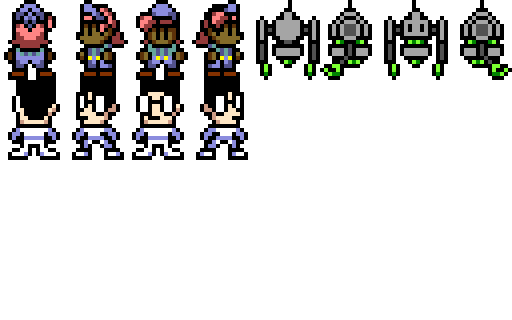
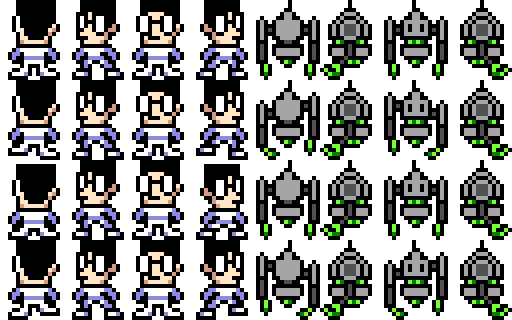
added character animation to world map.

diff --git a/js/worldmap/entities.js b/js/worldmap/entities.js
@@ -1,13 +1,13 @@
 var mapentities = {
     "farmersmarket": [
         //EnterShop("ChickenCoop", 10, 6, "coop"),
-        EnterShop("UpgradeTest", 10, 5, "farmupgradeFull"),
-        GetCommonEntity("SexFuck6969", 6, 10, 0, 1, 3, undefined, undefined, { storageKey: "craig", postBattle: "PostInitialBattle" }),
+        //EnterShop("UpgradeTest", 10, 5, "farmupgradeFull"),
+        GetCommonEntity("SexFuck6969", 6, 10, 0, 3, undefined, undefined, { storageKey: "craig", postBattle: "PostInitialBattle" }),
         SwitchMap("ExitAreaSouth", 0, 12, true, false, 5, 8, "farmpath"),
-        GetCommonEntity("PostInitialBattle", -1, -1, undefined, undefined, undefined, undefined, [
+        GetInvisibleEntity("PostInitialBattle", [
             GetSpeak("oops I killed a man. i should go kick his boss's ass, too. also his boss's ass,"),
             GetSpeak("so on and so forth, all the way up to the top. I should head to my farm first to get supplies.") 
-        ], { solid: false, storageKey: "PostInitialBattle" }),
+        ], { storageKey: "PostInitialBattle" }),
         {
             name: "CutscenePrompt",
             pos: {x: 11, y: 7}, // 10
@@ -18,8 +18,9 @@ var mapentities = {
                 function() {
                     worldmap.waitForAnimation = true;
                     worldmap.importantEntities["craig"].dir = 0;
+                    worldmap.importantEntities["craig"].moving = true;
                     worldmap.animIdx = setInterval(function() {
-                        worldmap.importantEntities["craig"].pos.y -= 0.2;//0.025;
+                        worldmap.importantEntities["craig"].pos.y -= 0.025;//0.2;//0.025;
                         worldmap.refreshMap();
                         if(worldmap.importantEntities["craig"].pos.y <= 8.5) {
                             worldmap.finishAnimation();
@@ -30,7 +31,7 @@ var mapentities = {
                     worldmap.waitForAnimation = true;
                     worldmap.importantEntities["craig"].dir = 3;
                     worldmap.animIdx = setInterval(function() {
-                        worldmap.importantEntities["craig"].pos.x += 0.2;//0.025;
+                        worldmap.importantEntities["craig"].pos.x += 0.025;//0.2;//0.025;
                         worldmap.refreshMap();
                         if(worldmap.importantEntities["craig"].pos.x >= 10) {
                             worldmap.finishAnimation();
@@ -40,8 +41,17 @@ var mapentities = {
                 function() {
                     worldmap.importantEntities["craig"].dir = 0;
                     worldmap.refreshMap();
-                    worldmap.writeText("fucking sick dude");
+                    worldmap.writeText("fucking sick");
+                    worldmap.importantEntities["craig"].moving = false;
                 },
+                GetSpeak("can i get a fuckin uhhhh carrot"),
+                function() {
+                    worldmap.importantEntities["craig"].dir = 1;
+                    worldmap.refreshMap();
+                    worldmap.writeText("this carrot is dope as SHIT, you really are a mighty farmer");
+                },
+                GetSpeak("i'm gonna use this carrot data to create PROPRIETARY FOOD SUBSTITUTES"),
+                GetSpeak("oh no you are going to fight me now because of that i guess"),
                 function() {
                     worldmap.clearTarget();
                     game.target = worldmap.importantEntities["craig"];
@@ -57,14 +67,14 @@ var mapentities = {
     ],
     "farm": [
         SwitchMap("ExitAreaWest", 23, 0, false, true, 1, 11, "farmpath"),
-        GetCommonEntity("Robo1", 20, 8, 4, 0, 2, commonMovementDatas.robo(20), commonInteractArrays.robo), 
-        GetCommonEntity("Robo2", 17, 10, 4, 0, 2, commonMovementDatas.robo(17), commonInteractArrays.robo), 
-        GetCommonEntity("Robo3", 16, 12, 4, 0, 2, commonMovementDatas.robo(16), commonInteractArrays.robo), 
-        GetCommonEntity("Robo4", 13, 14, 4, 0, 2, commonMovementDatas.robo(13), commonInteractArrays.robo), 
-        GetCommonEntity("Robo5", 12, 11, 4, 0, 2, commonMovementDatas.robo(12, 1), commonInteractArrays.robo), 
-        GetCommonEntity("Robo6", 9, 15, 4, 0, 2, commonMovementDatas.robo(9, 1), commonInteractArrays.robo),
+        GetCommonEntity("Robo1", 20, 8, 4, 2, commonMovementDatas.robo(20), commonInteractArrays.robo), 
+        GetCommonEntity("Robo2", 17, 10, 4, 2, commonMovementDatas.robo(17), commonInteractArrays.robo), 
+        GetCommonEntity("Robo3", 16, 12, 4, 2, commonMovementDatas.robo(16), commonInteractArrays.robo), 
+        GetCommonEntity("Robo4", 13, 14, 4, 2, commonMovementDatas.robo(13), commonInteractArrays.robo), 
+        GetCommonEntity("Robo5", 12, 11, 4, 2, commonMovementDatas.robo(12, 1), commonInteractArrays.robo), 
+        GetCommonEntity("Robo6", 9, 15, 4, 2, commonMovementDatas.robo(9, 1), commonInteractArrays.robo),
         EnterShop("ChickenCoop", 18, 3, "coop"),
-        GetCommonEntity("Fucker", 10, 3, 0, 0, 2, undefined, [
+        GetCommonEntity("Fucker", 10, 3, 0, 2, undefined, [
             GetSpeak("hI hEllo yEs i aM a tEchnology rObot sEnt tO rEsearch tHis fArm."),
             GetSpeak("aLso bY \"rEsearch\" i mEan \"lOot aNd pIllage.\""),
             GetSpeak("oH sHit tHis iS yOur fArm? fUck. i mEan... uHhhh... wAnt gIrl sCout cOokies?"),

diff --git a/js/worldmap/worldmap.js b/js/worldmap/worldmap.js
@@ -1,6 +1,7 @@
 var worldmap = {
     freeMovement: true,
     pos: {x: 0, y: 0}, playerDir: 2,
+    animData: new MapAnim("mapplayer", 0, 0, 16, 20, 2),
     mapName: "", fullAnimIdx: 0,
     entities: [], importantEntities: {},
     inDialogue: false, dialogState: 0,
@@ -46,6 +47,7 @@ var worldmap = {
         for(var i = 0; i < worldmap.entities.length; i++) {
             var e = worldmap.entities[i];
             if(e.movement === undefined) { continue; }
+            e.moving = true;
             var em = e.movement;
             var pointinfo = em.points[em.state];
             var newPos = {
@@ -86,19 +88,21 @@ var worldmap = {
         for(var y = 0; y < ymax; y++) { layers.push([]); }
         for(var i = 0; i < this.entities.length; i++) {
             var e = this.entities[i];
-            if(e.pos.y < 0 || e.pos.y >= ymax) { continue; }
-            layers[Math.round(e.pos.y)].push(e);
+            if(!e.visible || e.pos.y < 0 || e.pos.y >= ymax) { continue; }
+            layers[Math.round(e.pos.y)].push(e.anim.getFrame(e.pos, e.dir, e.moving));
         }
-        layers[Math.round(this.pos.y)].push({sx: 0, sy: 0, pos: this.pos, dir: this.playerDir});
+        var animDir = this.playerDir, moving = true;
+        if(input.keys["w"] !== undefined) { animDir = 0; }
+        else if(input.keys["a"] !== undefined) { animDir = 1; }
+        else if(input.keys["s"] !== undefined) { animDir = 2; }
+        else if(input.keys["d"] !== undefined) { animDir = 3; }
+        else { moving = false; }
+        layers[Math.round(this.pos.y)].push(this.animData.getFrame(this.pos, animDir, moving));
         for(var y = 0; y < ymax; y++) {
             var funcs = layers[y];
             for(var i = 0; i < funcs.length; i++) {
                 var e = funcs[i];
-                if(e.big) {
-                    gfx.drawBigMapCharacter(e.sx, e.sy, e.pos, offset, e.dir);
-                } else {
-                    gfx.drawMapCharacter(e.sx, e.sy, e.pos, offset, e.dir);
-                }
+                gfx.drawAnimCharacter(e.sx, e.sy, e.pos, offset, e.sheet, e.big);
             }
         }
     },
@@ -179,15 +183,13 @@ var worldmap = {
         if(!hasCollisions) {
             for(var i = 0; i < this.entities.length; i++) {
                 var e = this.entities[i];
-                if(e.pos.x == newPos.x && e.pos.y == newPos.y) {
+                if(worldmap.isCollision(e, newPos)) {
                     hasCollisions = true;
                     break;
                 }
             }
         }
-        if(!hasCollisions) {
-            this.pos = pos;
-        }
+        if(!hasCollisions) { this.pos = pos; }
         if(isEnter) {
             switch(this.playerDir) {
                 case 0: newPos.y--; break;
@@ -197,7 +199,7 @@ var worldmap = {
             }
             for(var i = 0; i < this.entities.length; i++) {
                 var e = this.entities[i];
-                if(e.solid && Math.round(e.pos.x) == newPos.x && Math.round(e.pos.y) == newPos.y && e.interact !== undefined) {
+                if(e.solid && worldmap.isCollision(e, newPos) && e.interact !== undefined) {
                     e.dir = this.invertDir(this.playerDir);
                     this.inDialogue = true;
                     clearInterval(this.fullAnimIdx);
@@ -228,5 +230,13 @@ var worldmap = {
             case 2: return 0;
             case 3: return 1;
         }
+    },
+    isCollision: function(e, newPos) {
+        if(e.pos.x == newPos.x && e.pos.y == newPos.y) { return true; }
+        return e.big && (
+            ((e.pos.x + 1) == newPos.x && e.pos.y == newPos.y)
+            || (e.pos.x == newPos.x && (e.pos.y + 1) == newPos.y)
+            || ((e.pos.x + 1) == newPos.x && (e.pos.y + 1) == newPos.y)
+        );
     }
 };

diff --git a/js/rendering.js b/js/rendering.js
@@ -45,15 +45,10 @@ var gfx = {
         layer = layer || "characters";
         gfx.drawImage(gfx.ctx[layer], gfx.spritesheets["charsheet"], sx * 16, sy * 20, 16, 20, x * 16, y * 16 - 4, 16, 20);
     },
-    drawBigMapCharacter: function(sx, sy, pos, offset, dir) {
-        gfx.drawImage(gfx.ctx["characters"], gfx.spritesheets["mapcharbig"], (sx + dir) * 32, sy * 40, 32, 40, (pos.x - offset.x) * 16 - 8, (pos.y - offset.y) * 16 - 24, 32, 40);
-    },
-    drawMapCharacter: function(sx, sy, pos, offset, dir) {
-        gfx.drawImage(gfx.ctx["characters"], gfx.spritesheets["mapchar"], (sx + dir) * 16, sy * 20, 16, 20, (pos.x - offset.x) * 16, (pos.y - offset.y) * 16 - 4, 16, 20);
-    },
-    drawAnimCharacter: function(sx, sy, pos, offset, sheet) {
+    drawAnimCharacter: function(sx, sy, pos, offset, sheet, big) {
         sheet = sheet || "mapchar";
-        gfx.drawImage(gfx.ctx["characters"], gfx.spritesheets[sheet], sx, sy, 16, 20, (pos.x - offset.x) * 16, (pos.y - offset.y) * 16 - 4, 16, 20);
+        var w = (big ? 32 : 16), h = (big ? 40 : 20);
+        gfx.drawImage(gfx.ctx["characters"], gfx.spritesheets[sheet], sx, sy, w, h, (pos.x - offset.x) * 16, (pos.y - offset.y) * 16 - (big ? 8 : 4), w, h);
     },
     drawCursor: function(x, y, w, h, cursorName) {
         cursorName = cursorName || "cursor";

diff --git a/js/worldmap/entityHelpers.js b/js/worldmap/entityHelpers.js
@@ -11,13 +11,21 @@ function EnterShop(name, x, y, shop) {
         interact: [ function() { game.transition(game.currentInputHandler, worldmap.shop, shop); return true; } ]
     };
 };
-function GetCommonEntity(name, x, y, sx, sy, dir, movement, interact, additional) {
+function GetInvisibleEntity(name, interact, additional) {
+    var res = { name: name, pos: {x: -1, y: -1}, solid: false, interact: interact };
+    return Object.assign(res, additional);
+};
+function GetCommonEntity(name, x, y, firstx, dir, movement, interact, additional) {
+    var big = (additional !== undefined && additional.big);
     var res = {
-        name: name, 
+        name: name, visible: true, 
         pos: {x: x, y: y}, solid: true, 
-        sx: sx, sy: sy, dir: dir,
+        anim: new MapAnim((big ? "mapcharbig" : "mapchar"), firstx, 0, (big ? 32 : 16), (big ? 40 : 20), dir),
+        moving: false,
+        sx: firstx * (big ? 32 : 16), dir: dir,
         movement: movement, interact: interact
     };
+    if(big) { res.anim.big = true; }
     return Object.assign(res, additional);
 };
 function GetSpeak(t) { return function() { worldmap.writeText(t); }  }

diff --git a/js/animation/animController.js b/js/animation/animController.js
@@ -1,0 +1,36 @@
+function MapAnim(sheet, sx, sy, w, h, dir) {
+    this.sheet = sheet;
+    this.topx = sx * w;
+    this.topy = sy * h;
+    this.width = w;
+    this.height = h;
+    this.state = 0;
+    this.big = false;
+    this.lastDir = dir || 2;
+    this.lastRan = +new Date();
+    this.getFrame = function(pos, dir, moving) {
+        var curTime = +new Date();
+        var update = (curTime - this.lastRan) >= anim.timePerFrame;
+        var frame = 0;
+        if(dir !== this.lastDir) {
+            this.state = 0;
+            this.lastDir = dir;
+        } else if(moving) {
+            if(update) {
+                this.state = (this.state + 1) % 4;
+                this.lastRan = curTime;
+            }
+            frame = 1 + ((this.state === 3) ? 1 : this.state);
+        }
+        return {
+            sheet: this.sheet,
+            sx: this.topx + (this.width * this.lastDir),
+            sy: this.topy + (this.height * frame),
+            pos: pos, dir: dir, big: this.big,
+            w: this.width, h: this.height
+        };
+    };
+}
+
+var anim = { fps: 6 };
+anim.timePerFrame = 1000 / anim.fps;

diff --git a/js/input.js b/js/input.js
@@ -2,9 +2,6 @@ var input = {
     click: function(e) {
         var p = input.getMousePos(e);
         if(game.currentInputHandler.click(p)) { return; }
-        /*var arr = ["ginger", "spinach", "tomato", "garlic", "carrot", "bellpepper", "corn", "pineapple", "radish", "rhubarb", "asparagus", "beet", "leek"];
-        var idx = Math.floor(Math.random() * arr.length);
-        gfx.drawTileToGrid(arr[idx] + "1", p.x, p.y, 1);*/
     },
     moveMouse: function(e) {
         var p = input.getMousePos(e);
